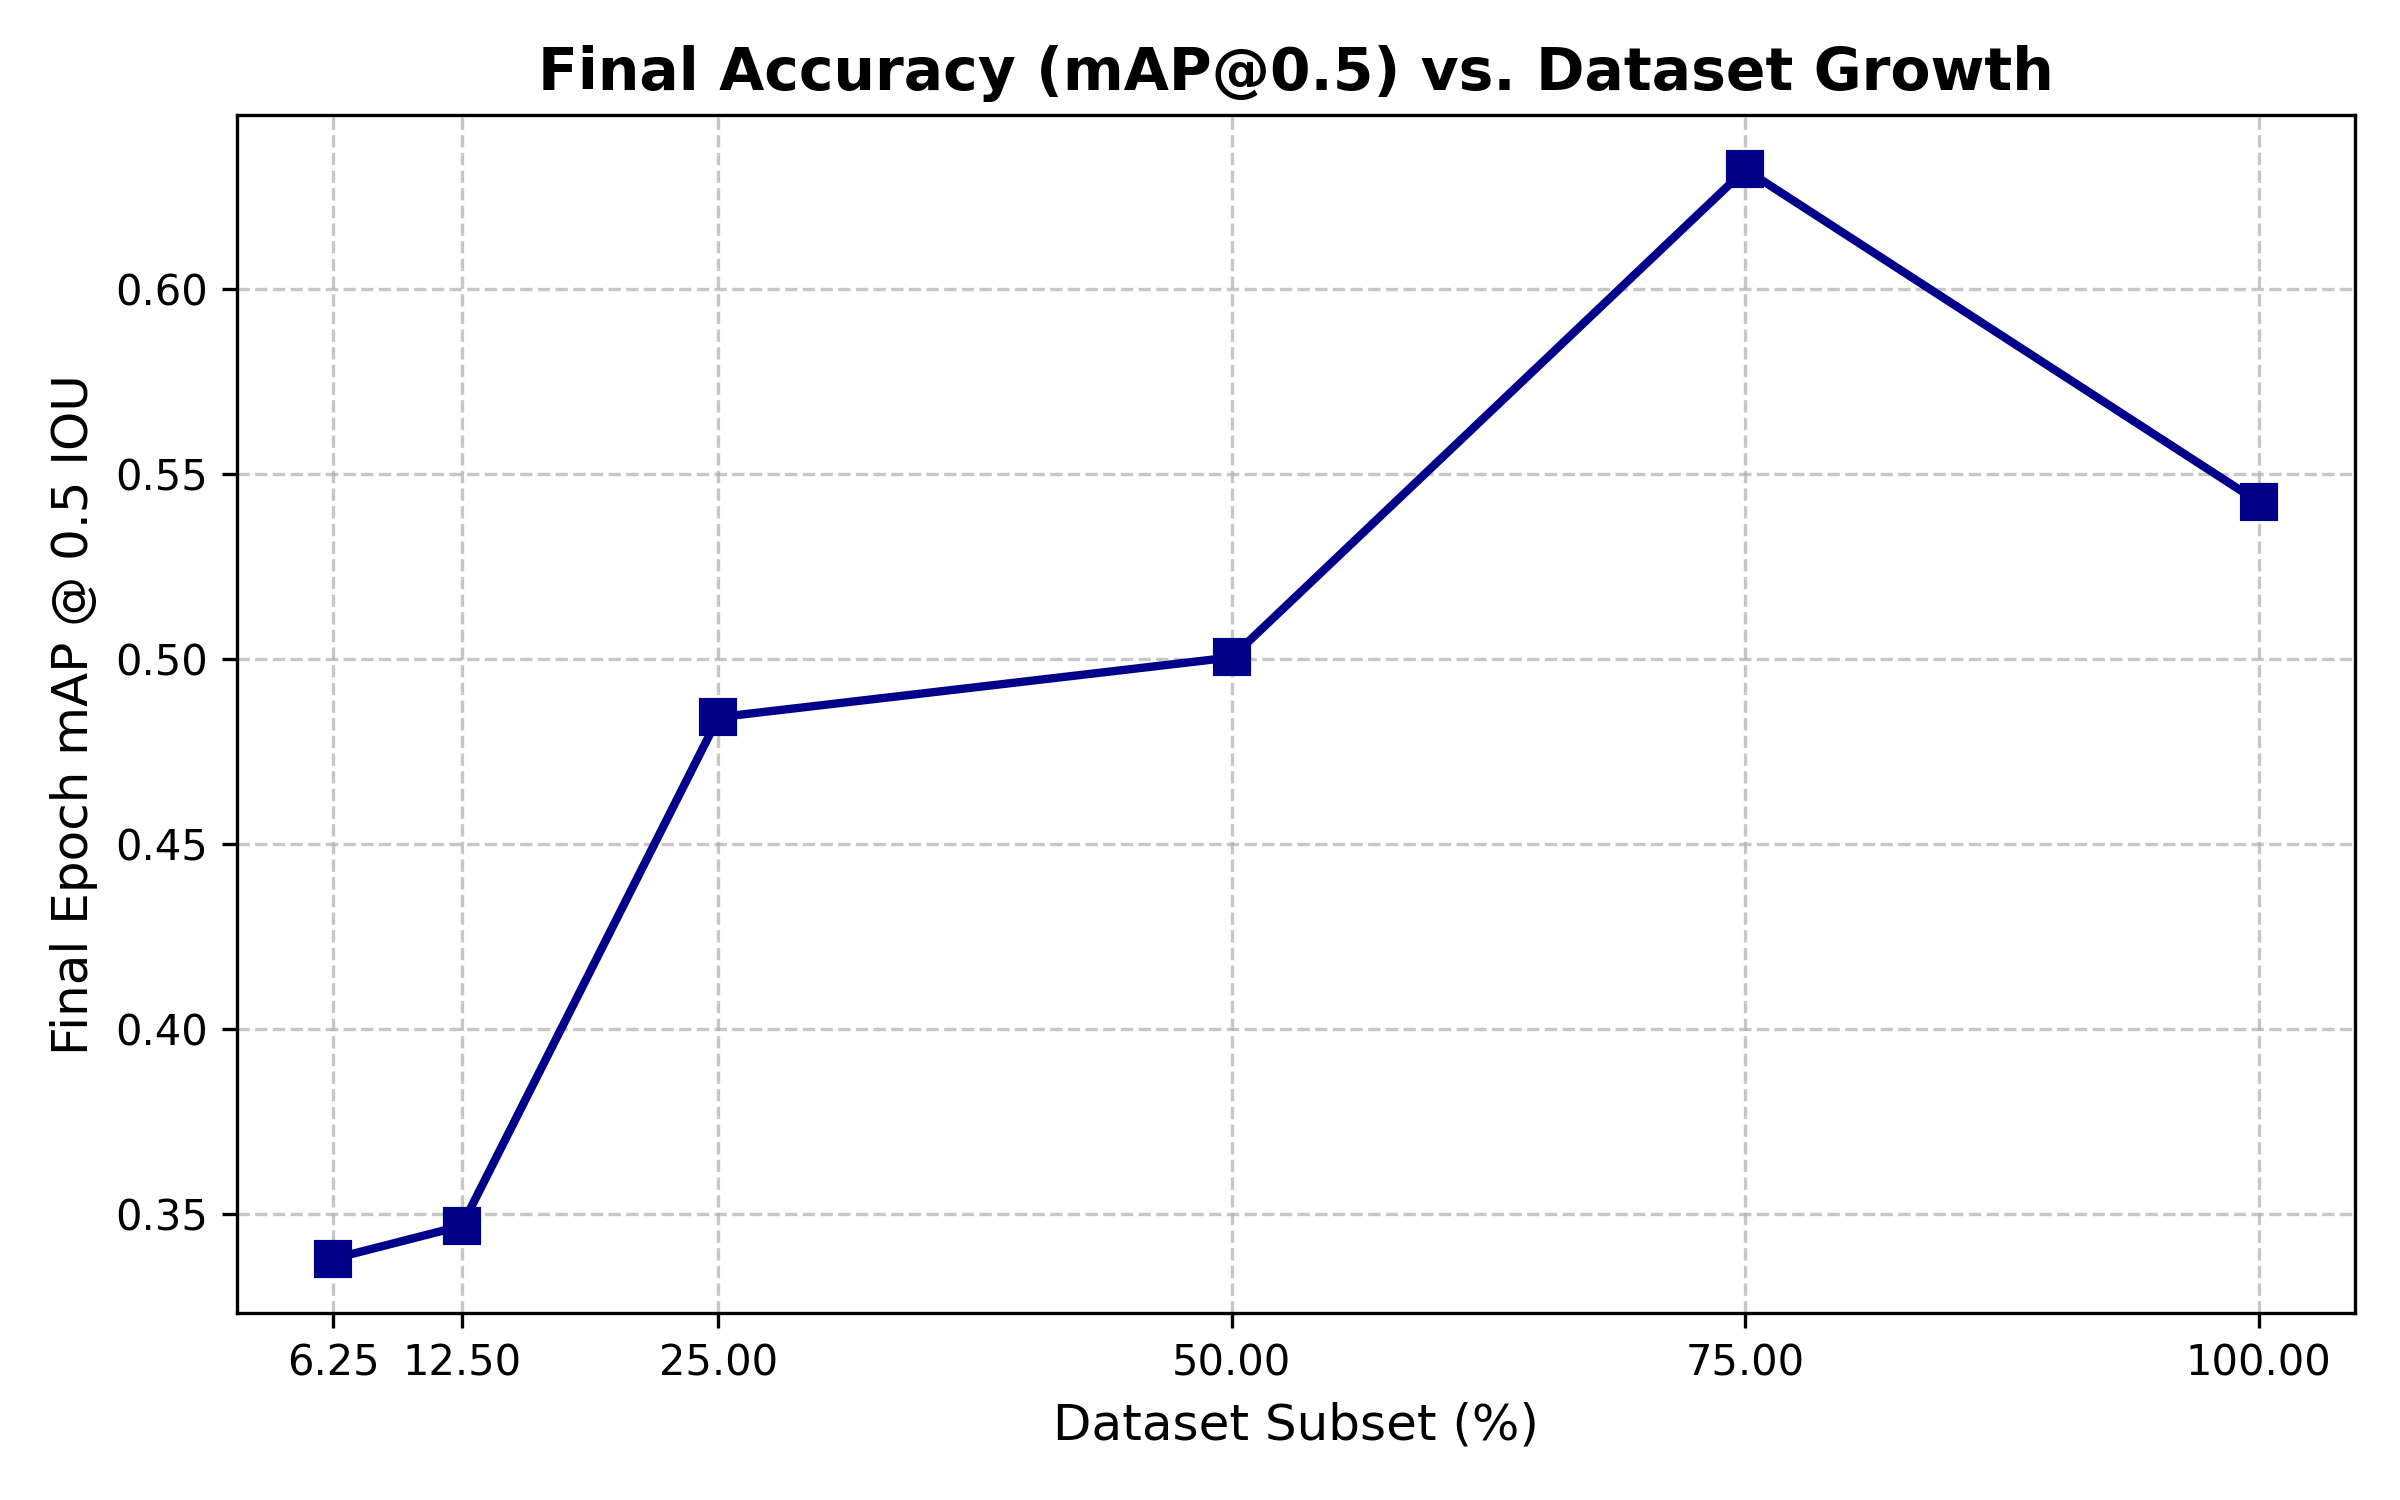
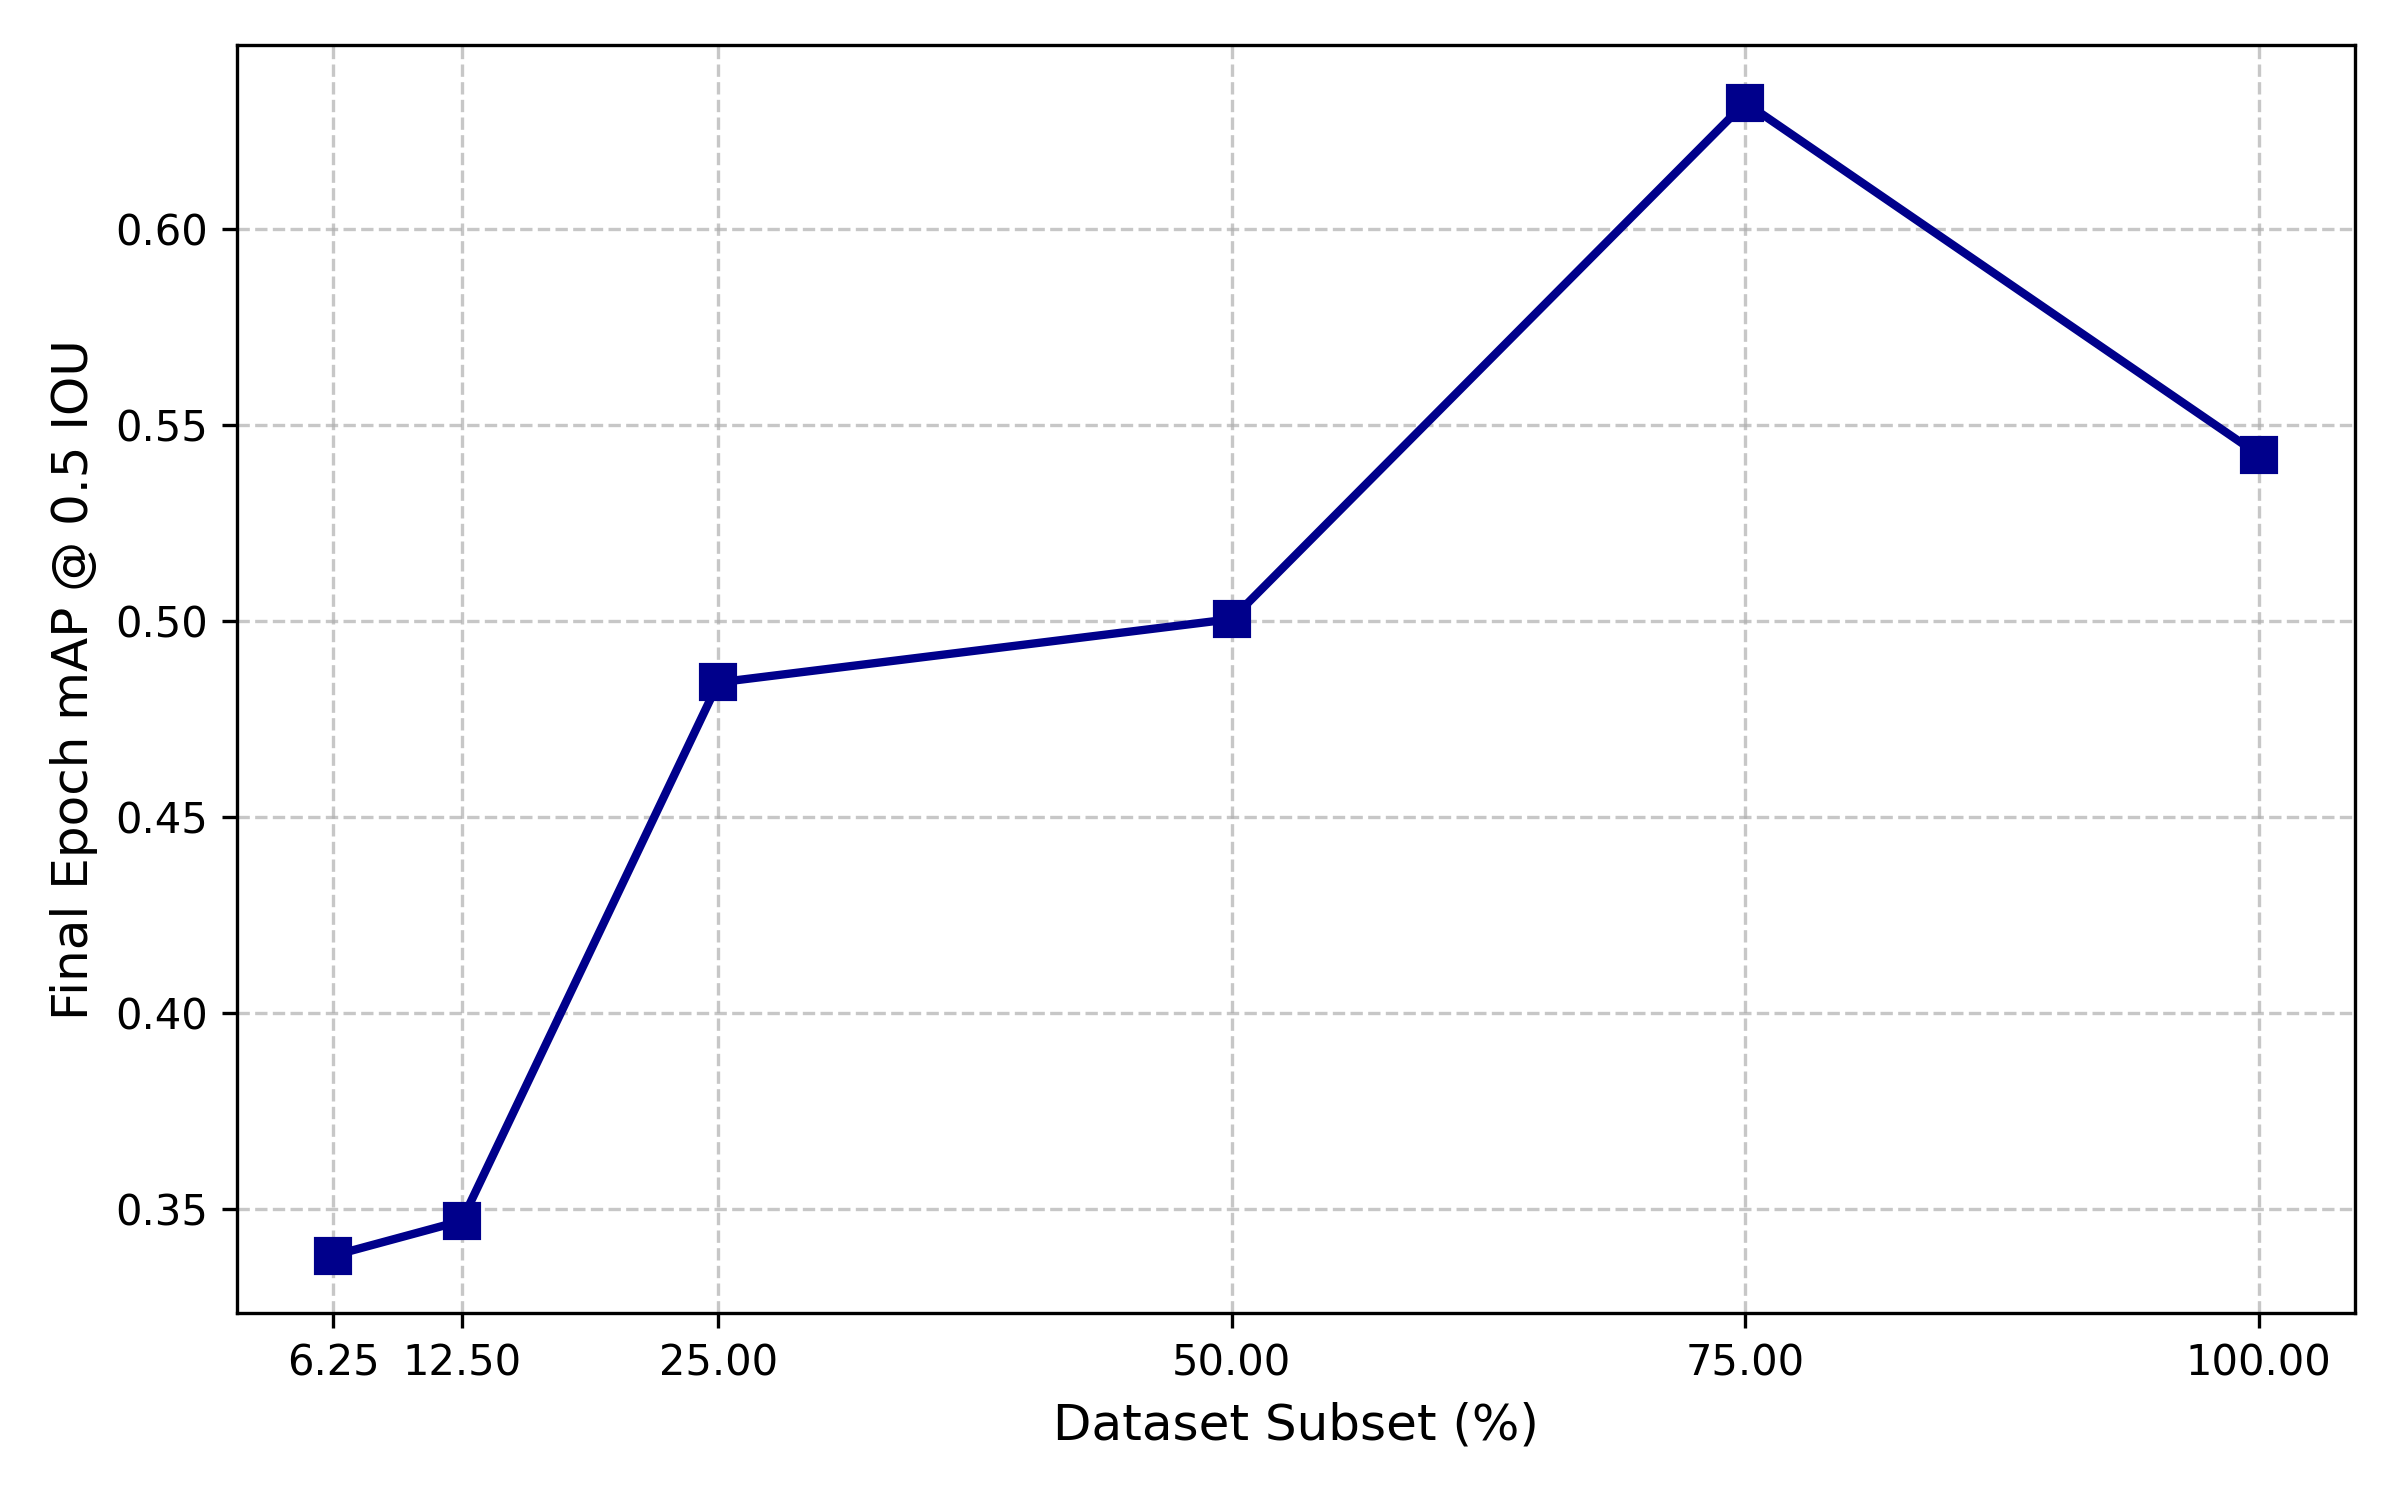
adjusted plots

diff --git a/evaluation/PennAction/plot_training_metrics.py b/evaluation/PennAction/plot_training_metrics.py
@@ -67,7 +67,7 @@ def plot_map_vs_epochs(data):
         # Plot the curve
         plt.plot(epochs, map_values, marker='o', linewidth=2, label=f"{subset}% Dataset")
 
-    plt.title("Model Accuracy (mAP@0.5) vs. Training Epochs", fontsize=14, fontweight='bold')
+    # plt.title("Model Accuracy (mAP@0.5) vs. Training Epochs", fontsize=14, fontweight='bold')
     plt.xlabel("Epochs", fontsize=12)
     plt.ylabel("mAP @ 0.5 IOU", fontsize=12)
     plt.grid(True, linestyle='--', alpha=0.7)
@@ -97,7 +97,7 @@ def plot_final_map_vs_dataset(data):
     # Plot the curve
     plt.plot(percentages, final_maps, marker='s', color='darkblue', linestyle='-', linewidth=2, markersize=8)
     
-    plt.title("Final Accuracy (mAP@0.5) vs. Dataset Growth", fontsize=14, fontweight='bold')
+    # plt.title("Final Accuracy (mAP@0.5) vs. Dataset Growth", fontsize=14, fontweight='bold')
     plt.xlabel("Dataset Subset (%)", fontsize=12)
     plt.ylabel("Final Epoch mAP @ 0.5 IOU", fontsize=12)
     
